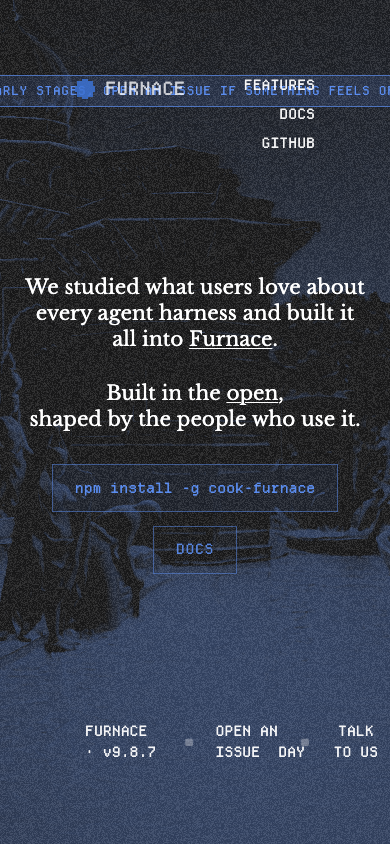
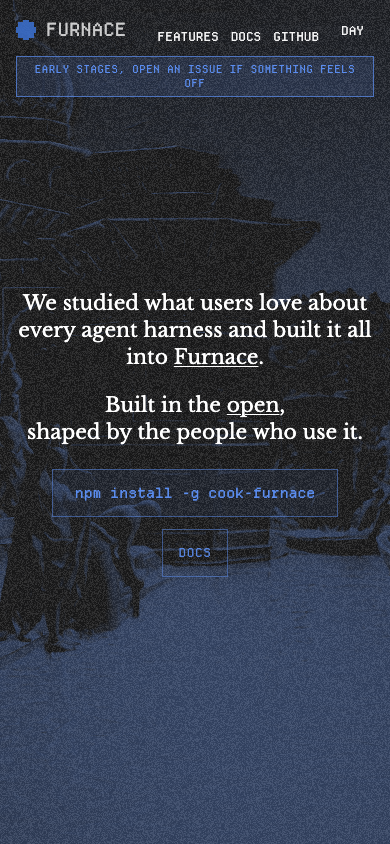
fix: adapt site layout for small screens
Keep navigation, feature cards, documentation, and contributor links usable without horizontal overflow on phones and tablets.

diff --git a/src/components/site/Chrome.jsx b/src/components/site/Chrome.jsx
@@ -40,13 +40,13 @@ function useAnimatedVersion(target) {
 }
 
 const chromeLink =
-  'font-mono text-[14px] uppercase text-white/95 no-underline cursor-pointer hover:text-accent hover-accent-glow'
+  'font-mono text-[12px] sm:text-[14px] uppercase text-white/95 no-underline cursor-pointer hover:text-accent hover-accent-glow'
 
 const activeLink =
-  'font-mono text-[14px] uppercase no-underline text-accent accent-glow'
+  'font-mono text-[12px] sm:text-[14px] uppercase no-underline text-accent accent-glow'
 
 const themeToggle =
-  'border-0 bg-none font-mono text-[14px] text-white/95 px-2.5 py-1.5 cursor-pointer hover:text-accent hover-accent-glow focus-visible:outline focus-visible:outline-2 focus-visible:outline-accent focus-visible:outline-offset-2'
+  'border-0 bg-none font-mono text-[12px] sm:text-[14px] text-white/95 px-2.5 py-1.5 cursor-pointer hover:text-accent hover-accent-glow focus-visible:outline focus-visible:outline-2 focus-visible:outline-accent focus-visible:outline-offset-2'
 
 export default function Chrome() {
   const location = useLocation()
@@ -92,9 +92,36 @@ export default function Chrome() {
 
   return (
     <>
+      <nav className="fixed inset-x-0 top-0 z-[1000] flex h-14 items-center justify-between px-4 md:hidden">
+        <Link to="/" className="flex shrink-0 items-center gap-2 no-underline opacity-85 hover:opacity-100">
+          <img
+            src="/assets/brand/furnace-logo.svg"
+            alt="Furnace"
+            width="18"
+            height="18"
+            style={{ imageRendering: 'pixelated' }}
+            className="[filter:brightness(0)_invert(1)] night:[filter:none]"
+          />
+          <span className="font-mono text-[16px] uppercase whitespace-nowrap text-white/90">FURNACE</span>
+        </Link>
+        <div className="flex items-center gap-3 font-mono text-[11px] uppercase">
+          <a href="#features-section" onClick={handleFeatures} className={chromeLink}>Features</a>
+          <Link to={isDocs ? '/' : '/docs'} className={isDocs ? activeLink : chromeLink}>Docs</Link>
+          <a href="https://github.com/amoreX/furnace" target="_blank" rel="noopener noreferrer" className={chromeLink}>GitHub</a>
+          <button
+            type="button"
+            aria-label="Toggle color theme"
+            className={`${themeToggle} px-0`}
+            onClick={toggleTheme}
+          >
+            <span>{isNight ? 'DAY' : 'NIGHT'}</span>
+          </button>
+        </div>
+      </nav>
+
       {/* Logo — top left */}
       {!isDocs && (
-        <Link to="/" className="fixed left-[75px] top-[75px] z-[1000] flex items-center gap-2.5 no-underline group opacity-85 hover:opacity-100">
+        <Link to="/" className="fixed left-[75px] top-[75px] z-[1000] hidden md:flex items-center gap-2.5 no-underline group opacity-85 hover:opacity-100">
           <img
             src="/assets/brand/furnace-logo.svg"
             alt="Furnace"
@@ -112,7 +139,7 @@ export default function Chrome() {
       )}
 
       {/* Nav — top right */}
-      <nav className="fixed top-[75px] right-[75px] z-[200] flex flex-col items-end gap-2">
+      <nav className="fixed top-[75px] right-[75px] z-[200] hidden md:flex flex-col items-end gap-2">
         <a
           href="#features-section"
           onClick={handleFeatures}
@@ -133,29 +160,29 @@ export default function Chrome() {
 
       {/* Footer label — bottom left */}
       {!isDocs && (
-        <div className="fixed bottom-[75px] left-[75px] z-[200] flex items-center gap-3">
+        <div className="fixed bottom-[75px] left-[75px] z-[200] hidden md:flex flex-wrap items-center gap-3">
           <a
             href="https://www.npmjs.com/package/cook-furnace"
             target="_blank"
             rel="noopener noreferrer"
-            className="font-mono text-[14px] text-white/95 px-2.5 py-1.5 no-underline hover:underline cursor-pointer"
+            className="font-mono text-[11px] sm:text-[14px] text-white/95 px-1 sm:px-2.5 py-1.5 no-underline hover:underline cursor-pointer whitespace-nowrap"
           >
             FURNACE · v{animatedVersion}
           </a>
-          <span className="text-white/30 text-[10px] select-none">■</span>
+          <span className="text-white/30 text-[8px] sm:text-[10px] select-none">■</span>
           <a
             href="https://github.com/amoreX/furnace/issues"
             target="_blank"
             rel="noopener noreferrer"
-            className="font-mono text-[14px] text-white/95 px-2.5 py-1.5 no-underline hover:underline cursor-pointer"
+            className="font-mono text-[11px] sm:text-[14px] text-white/95 px-1 sm:px-2.5 py-1.5 no-underline hover:underline cursor-pointer whitespace-nowrap"
           >
             OPEN AN ISSUE
           </a>
-          <span className="text-white/30 text-[10px] select-none">■</span>
+          <span className="text-white/30 text-[8px] sm:text-[10px] select-none">■</span>
           <button
             type="button"
             onClick={() => { const root = document.getElementById('root'); if (root) root.scrollTo({ top: root.scrollHeight, behavior: 'smooth' }) }}
-            className="font-mono text-[14px] text-white/95 px-2.5 py-1.5 bg-transparent border-0 no-underline hover:underline cursor-pointer"
+            className="font-mono text-[11px] sm:text-[14px] text-white/95 px-1 sm:px-2.5 py-1.5 bg-transparent border-0 no-underline hover:underline cursor-pointer whitespace-nowrap"
           >
             TALK TO US
           </button>
@@ -163,7 +190,7 @@ export default function Chrome() {
       )}
 
       {/* Theme toggle — bottom right */}
-      <div className="fixed bottom-[75px] right-[75px] z-[200] flex items-center gap-4">
+      <div className="fixed bottom-[75px] right-[75px] z-[200] hidden md:flex items-center gap-4">
         <button
           id="theme-toggle"
           type="button"

diff --git a/src/components/site/Footer.jsx b/src/components/site/Footer.jsx
@@ -72,14 +72,14 @@ export default function Footer() {
   const [hovered, setHovered] = useState(null) // 'nihal' | 'ronish' | null
 
   return (
-    <footer id="site-footer" className="relative z-[2000] bg-[#0e0e0e] flex items-center justify-center gap-[clamp(16px,3vw,48px)] px-6 md:px-[75px] py-[80px] overflow-hidden">
-      <div className="font-mono text-[clamp(64px,12vw,160px)] font-bold text-white/90 uppercase tracking-[-0.02em] leading-none relative z-[1] select-none">
+    <footer id="site-footer" className="relative z-[2000] bg-[#0e0e0e] flex flex-col md:flex-row items-center justify-center gap-5 md:gap-[clamp(16px,3vw,48px)] px-4 sm:px-6 md:px-[75px] py-16 sm:py-[80px] overflow-hidden">
+      <div className="font-mono text-[clamp(52px,18vw,160px)] md:text-[clamp(64px,12vw,160px)] font-bold text-white/90 uppercase tracking-[-0.02em] leading-none relative z-[1] select-none">
         FURNACE
       </div>
-      <span className="font-serif italic text-[clamp(20px,3vw,40px)] text-white/70 relative z-[1] select-none">
+      <span className="hidden md:block font-serif italic text-[clamp(20px,3vw,40px)] text-white/70 relative z-[1] select-none">
         by
       </span>
-      <div className="relative z-[1] h-[228px] w-[228px]">
+      <div className="relative z-[1] hidden md:block h-[228px] w-[228px]">
         {/* Slot A — top-left */}
         <div className="absolute left-0 top-0 w-[120px] h-[120px]">
           <div
@@ -134,6 +134,27 @@ export default function Footer() {
             <PersonInfo person={NIHAL} align="end" />
           </div>
         </div>
+      </div>
+      <div className="relative z-[1] flex md:hidden items-center justify-center gap-3">
+        <span className="font-serif italic text-[26px] text-white/70 select-none">by</span>
+        <a
+          href={NIHAL.href}
+          target="_blank"
+          rel="noopener noreferrer"
+          aria-label="Nihal on X"
+          className="block shrink-0"
+        >
+          <Coin size={88} normalMap="/assets/contributors/nihal-normal-map.png" />
+        </a>
+        <a
+          href={RONISH.href}
+          target="_blank"
+          rel="noopener noreferrer"
+          aria-label="Ronish on X"
+          className="block shrink-0"
+        >
+          <Coin size={88} normalMap="/assets/contributors/ronish-normal-map.png" flipX />
+        </a>
       </div>
       <NoiseCanvas
         className="absolute inset-0 w-full h-full pointer-events-none z-[2]"

diff --git a/e2e/visual.spec.js b/e2e/visual.spec.js
@@ -70,8 +70,28 @@ test('features desktop', async ({ page }) => {
   await expect(page).toHaveScreenshot('features-desktop.png', screenshotOptions)
 })
 
+test('features mobile', async ({ page }) => {
+  await page.setViewportSize({ width: 390, height: 844 })
+  await prepare(page, '/features')
+  await expect(page).toHaveScreenshot('features-mobile.png', screenshotOptions)
+})
+
+test('footer mobile', async ({ page }) => {
+  await page.setViewportSize({ width: 390, height: 844 })
+  await prepare(page, '/')
+  const footer = page.locator('footer')
+  await footer.scrollIntoViewIfNeeded()
+  await expect(footer).toHaveScreenshot('footer-mobile.png', screenshotOptions)
+})
+
 test('docs desktop', async ({ page }) => {
   await page.setViewportSize({ width: 1280, height: 800 })
   await prepare(page, '/docs/getting-started')
   await expect(page).toHaveScreenshot('docs-desktop.png', screenshotOptions)
+})
+
+test('docs mobile', async ({ page }) => {
+  await page.setViewportSize({ width: 390, height: 844 })
+  await prepare(page, '/docs/getting-started')
+  await expect(page).toHaveScreenshot('docs-mobile.png', screenshotOptions)
 })

diff --git a/src/pages/Home.jsx b/src/pages/Home.jsx
@@ -84,17 +84,17 @@ export default function Home() {
 
   return (
     <>
-      <section className="relative min-h-screen flex items-center justify-center text-center px-6 md:px-[75px] pb-[80px] pt-[4vh]">
+      <section className="relative min-h-screen flex items-center justify-center text-center px-4 sm:px-6 md:px-[75px] pb-[96px] md:pb-[80px] pt-[72px] md:pt-[4vh]">
         <a
           href="https://github.com/amoreX/furnace/issues"
           target="_blank"
           rel="noopener noreferrer"
-          className="absolute top-[75px] left-1/2 -translate-x-1/2 no-underline px-3 py-1.5 font-mono text-[12px] uppercase tracking-[0.06em] border border-accent/70 bg-accent/15 text-accent outline outline-1 outline-transparent outline-offset-4 hover:bg-accent/25 hover:outline-accent/50 transition-[background-color,outline-color] duration-200 whitespace-nowrap"
+          className="absolute top-[56px] md:top-[75px] left-1/2 -translate-x-1/2 w-[calc(100%-2rem)] max-w-[calc(100%-2rem)] md:w-auto md:max-w-max no-underline px-3 py-1.5 font-mono text-[10px] sm:text-[12px] uppercase tracking-[0.06em] border border-accent/70 bg-accent/15 text-accent outline outline-1 outline-transparent outline-offset-4 hover:bg-accent/25 hover:outline-accent/50 transition-[background-color,outline-color] duration-200 text-center leading-[1.35] md:whitespace-nowrap"
         >
           Early stages, open an issue if something feels off
         </a>
-        <div className="flex flex-col items-center gap-8">
-          <p className="m-0 mt-[50px] font-serif text-[clamp(20px,2.2vw,34px)] leading-[1.3] font-normal max-w-[820px] text-white/95">
+        <div className="flex flex-col items-center gap-6 sm:gap-8">
+          <p className="m-0 mt-[46px] sm:mt-[50px] font-serif text-[clamp(19px,5.2vw,34px)] leading-[1.35] sm:leading-[1.3] font-normal max-w-[820px] text-white/95">
             <W r={r} idx={0}>We</W>{' '}
             <W r={r} idx={1}>studied</W>{' '}
             <W r={r} idx={2}>what</W>{' '}
@@ -117,7 +117,7 @@ export default function Home() {
                 rel="noopener noreferrer"
               >Furnace</a>.
             </W>
-            <span className="block mt-7">
+            <span className="block mt-5 sm:mt-7">
               <W r={r} idx={15}>Built</W>{' '}
               <W r={r} idx={16}>in</W>{' '}
               <W r={r} idx={17}>the</W>{' '}
@@ -141,10 +141,10 @@ export default function Home() {
             </span>
           </p>
 
-          <div className={`flex items-center justify-center gap-3.5 flex-wrap transition-opacity duration-300 ${allDone ? 'opacity-100' : 'opacity-0 pointer-events-none'}`}>
+          <div className={`flex w-full items-center justify-center gap-3 sm:gap-3.5 flex-wrap transition-opacity duration-300 ${allDone ? 'opacity-100' : 'opacity-0 pointer-events-none'}`}>
             <button
               type="button"
-              className={`${installBase} ${installState}`}
+              className={`${installBase} max-w-full px-4 sm:px-[22px] text-[12px] sm:text-[14px] ${installState}`}
               onClick={() => copy(INSTALL_CMD)}
             >
               <code className={`whitespace-nowrap transition-opacity duration-150 ${copied ? 'opacity-0' : 'opacity-100'}`}>
@@ -158,7 +158,7 @@ export default function Home() {
             </button>
             <Link
               to="/docs"
-              className="relative h-12 inline-flex items-center justify-center px-[22px] font-mono text-[14px] uppercase tracking-[0.05em] no-underline text-white border border-white/50 bg-white/10 transition-[background-color,color,border-color] duration-200 hover:bg-white/20 hover:border-white/80 hover:text-white after:content-[''] after:absolute after:inset-[-4px] after:border after:border-white/50 after:opacity-0 after:transition-opacity after:duration-200 after:pointer-events-none hover:after:opacity-100 night:text-accent/92 night:border-accent/50 night:bg-transparent night:hover:bg-accent/12 night:hover:border-accent/80 night:hover:text-accent night:after:border-accent/50"
+              className="relative h-12 inline-flex items-center justify-center px-4 sm:px-[22px] font-mono text-[12px] sm:text-[14px] uppercase tracking-[0.05em] no-underline text-white border border-white/50 bg-white/10 transition-[background-color,color,border-color] duration-200 hover:bg-white/20 hover:border-white/80 hover:text-white after:content-[''] after:absolute after:inset-[-4px] after:border after:border-white/50 after:opacity-0 after:transition-opacity after:duration-200 after:pointer-events-none hover:after:opacity-100 night:text-accent/92 night:border-accent/50 night:bg-transparent night:hover:bg-accent/12 night:hover:border-accent/80 night:hover:text-accent night:after:border-accent/50"
             >
               Docs
             </Link>
@@ -166,11 +166,11 @@ export default function Home() {
         </div>
       </section>
 
-      <section id="features-section" className="relative flex items-center justify-center px-6 md:px-[75px] py-[40px] min-h-screen">
+      <section id="features-section" className="relative flex items-center justify-center px-4 sm:px-6 md:px-[75px] py-16 md:py-[40px] min-h-screen">
         <FeatureGrid variant="home" />
       </section>
 
-      <section id="about-section" ref={aboutRef} className="relative min-h-screen flex items-center justify-center text-center px-6 md:px-[75px]">
+      <section id="about-section" ref={aboutRef} className="relative min-h-screen flex items-center justify-center text-center px-4 sm:px-6 md:px-[75px] py-24 md:py-0">
         <div className="font-serif text-[clamp(18px,1.8vw,28px)] leading-[1.5] font-normal max-w-[760px] text-white/90">
           {aboutParagraphs.map((paragraph, pIdx) => {
             const offset = aboutParagraphs.slice(0, pIdx).reduce((acc, p) => acc + p.split(' ').length, 0)

diff --git a/e2e/site.spec.js b/e2e/site.spec.js
@@ -206,3 +206,20 @@ test('keeps primary navigation available at a phone viewport', async ({ page }) 
   await expect(page.getByRole('link', { name: 'Configuration' })).toBeVisible()
   await expect(page.locator('main')).toContainText('Configuration')
 })
+
+for (const viewport of [
+  { name: 'phone', width: 360, height: 800 },
+  { name: 'tablet', width: 768, height: 1024 },
+  { name: 'desktop', width: 1280, height: 800 },
+]) {
+  test(`keeps every primary route within the ${viewport.name} viewport`, async ({ page }) => {
+    await page.setViewportSize(viewport)
+
+    for (const path of ['/', '/features', '/docs/getting-started']) {
+      await page.goto(path, { waitUntil: 'networkidle' })
+      await expect
+        .poll(() => page.evaluate(() => document.documentElement.scrollWidth <= window.innerWidth))
+        .toBe(true)
+    }
+  })
+}

diff --git a/src/components/features/FeatureGrid.jsx b/src/components/features/FeatureGrid.jsx
@@ -4,12 +4,12 @@ import GraphCardBackground from './GraphCardBackground.jsx'
 
 const variants = {
   home: {
-    frame: 'w-[92vw] md:w-[60vw] h-[60vh]',
+    frame: 'w-full max-w-[520px] md:w-[60vw] md:max-w-none md:h-[60vh]',
     name: 'font-mono font-bold uppercase text-[13px] tracking-[0.1em]',
     description: 'font-serif text-[15px] leading-[1.6]',
   },
   standalone: {
-    frame: 'w-[min(860px,92vw)] h-[60vh] mx-auto',
+    frame: 'w-full max-w-[520px] md:w-[min(860px,92vw)] md:max-w-none md:h-[60vh] mx-auto',
     name: 'font-bold uppercase text-[12px] tracking-[0.1em]',
     description: 'leading-[1.6]',
   },
@@ -25,11 +25,11 @@ export default function FeatureGrid({ variant }) {
 
   return (
     <div className={styles.frame}>
-      <div className="grid grid-cols-2 grid-rows-[1fr_1fr] gap-4 h-full">
+      <div className="grid grid-cols-1 md:grid-cols-2 md:grid-rows-[1fr_1fr] gap-4 h-full">
         {FEATURES.map((feature, index) => (
           <div
             key={feature.name}
-            className="h-full"
+            className="min-h-[220px] md:min-h-0 h-full"
             onMouseEnter={() => setHovered(index)}
             onMouseLeave={() => setHovered(null)}
           >
@@ -41,7 +41,7 @@ export default function FeatureGrid({ variant }) {
               dim={hovered !== null && hovered !== index}
             >
               <div
-                className={`h-full flex flex-col justify-between p-6 border text-left outline outline-1 outline-offset-4 transition-[color,border-color,outline-color] duration-300 ${
+                className={`h-full flex flex-col justify-between p-5 sm:p-6 border text-left outline outline-1 outline-offset-4 transition-[color,border-color,outline-color] duration-300 ${
                   hovered === index ? 'border-accent/70 outline-accent/50' : 'border-white/8 outline-transparent'
                 }`}
               >

diff --git a/src/components/features/FeatureGrid.test.jsx b/src/components/features/FeatureGrid.test.jsx
@@ -11,21 +11,21 @@ vi.mock('./GraphCardBackground.jsx', () => ({
 }))
 
 describe('FeatureGrid', () => {
-  it('preserves the home dimensions and typography', () => {
+  it('uses a single-column mobile layout while preserving home typography', () => {
     const { container } = render(<FeatureGrid variant="home" />)
 
-    expect(container.firstChild).toHaveClass('w-[92vw]', 'md:w-[60vw]', 'h-[60vh]')
+    expect(container.firstChild).toHaveClass('w-full', 'max-w-[520px]', 'md:w-[60vw]', 'md:h-[60vh]')
     expect(screen.getByText('/Fork Any Conversation')).toHaveClass('font-mono', 'text-[13px]')
     expect(screen.getByText(/Furnace keeps a tree/)).toHaveClass('font-serif', 'text-[15px]')
   })
 
-  it('preserves standalone dimensions, typography, and hover behavior', () => {
+  it('uses a single-column mobile standalone layout and preserves hover behavior', () => {
     const { container } = render(<FeatureGrid variant="standalone" />)
     const grid = within(container)
     const firstCard = grid.getByText('/Fork Any Conversation').parentElement.parentElement
     const secondBackground = grid.getByText('Saves Tokens by Indexing').parentElement.parentElement
 
-    expect(container.firstChild).toHaveClass('w-[min(860px,92vw)]', 'h-[60vh]', 'mx-auto')
+    expect(container.firstChild).toHaveClass('w-full', 'max-w-[520px]', 'md:w-[min(860px,92vw)]', 'md:h-[60vh]', 'mx-auto')
     expect(grid.getByText('/Fork Any Conversation')).toHaveClass('text-[12px]')
     expect(grid.getByText('/Fork Any Conversation')).not.toHaveClass('font-mono')
     expect(grid.getByText(/Furnace keeps a tree/)).not.toHaveClass('font-serif', 'text-[15px]')

diff --git a/src/components/docs/DocsLayout.jsx b/src/components/docs/DocsLayout.jsx
@@ -17,9 +17,9 @@ export default function DocsLayout({ children }) {
 
   return (
     <div className="relative z-[2] min-h-screen flex flex-col min-[900px]:flex-row bg-transparent text-[#1c1b1a] night:text-white/95 font-chrome text-[14px] leading-[1.7]">
-      <div className="relative flex w-full max-w-[1080px] min-[1600px]:w-[calc(100vw-500px)] min-[1600px]:max-w-none">
+      <div className="relative flex flex-col min-[900px]:flex-row w-full min-w-0 max-w-[1080px] min-[1600px]:w-[calc(100vw-500px)] min-[1600px]:max-w-none">
         <NoiseCanvas className="absolute inset-0 w-full h-full pointer-events-none z-0" />
-        <aside className="bg-[rgba(250,250,249,0.9)] night:bg-[rgba(18,18,20,0.9)] border-b border-[rgba(28,27,26,0.1)] night:border-b-white/8 p-6 min-[900px]:w-[300px] min-[900px]:shrink-0 min-[900px]:border-r min-[900px]:border-[rgba(28,27,26,0.1)] min-[900px]:night:border-r-white/8 min-[900px]:border-b-0 min-[900px]:p-[75px_32px_75px_75px] min-[900px]:sticky min-[900px]:top-0 min-[900px]:h-screen min-[900px]:overflow-y-auto min-[900px]:overscroll-none min-[900px]:z-[1]">
+        <aside className="bg-[rgba(250,250,249,0.9)] night:bg-[rgba(18,18,20,0.9)] border-b border-[rgba(28,27,26,0.1)] night:border-b-white/8 px-4 pb-5 pt-[68px] sm:px-6 sm:pb-6 sm:pt-[76px] min-[900px]:w-[300px] min-[900px]:shrink-0 min-[900px]:border-r min-[900px]:border-[rgba(28,27,26,0.1)] min-[900px]:night:border-r-white/8 min-[900px]:border-b-0 min-[900px]:p-[75px_32px_75px_75px] min-[900px]:sticky min-[900px]:top-0 min-[900px]:h-screen min-[900px]:overflow-y-auto min-[900px]:overscroll-none min-[900px]:z-[1]">
           <div className="flex flex-col gap-2 mb-8">
             <Link
               to="/"
@@ -40,7 +40,7 @@ export default function DocsLayout({ children }) {
             ))}
           </nav>
         </aside>
-        <article className="flex-1 max-w-[780px] min-[1600px]:max-w-none p-[32px_24px_80px] min-[900px]:p-[75px_75px_120px] bg-[rgba(250,250,249,0.9)] night:bg-[rgba(18,18,20,0.9)] relative z-[1]">
+        <article className="min-w-0 flex-1 max-w-[780px] min-[1600px]:max-w-none p-[28px_16px_80px] sm:p-[32px_24px_80px] min-[900px]:p-[75px_75px_120px] bg-[rgba(250,250,249,0.9)] night:bg-[rgba(18,18,20,0.9)] relative z-[1]">
           {children}
         </article>
       </div>

diff --git a/src/pages/Features.jsx b/src/pages/Features.jsx
@@ -2,7 +2,7 @@ import FeatureGrid from '../components/features/FeatureGrid.jsx'
 
 export default function Features() {
   return (
-    <section className="relative h-auto px-[30px] pt-[120px] pb-[160px]">
+    <section className="relative h-auto px-4 sm:px-[30px] pt-[88px] sm:pt-[120px] pb-[96px] sm:pb-[160px]">
       <FeatureGrid variant="standalone" />
     </section>
   )